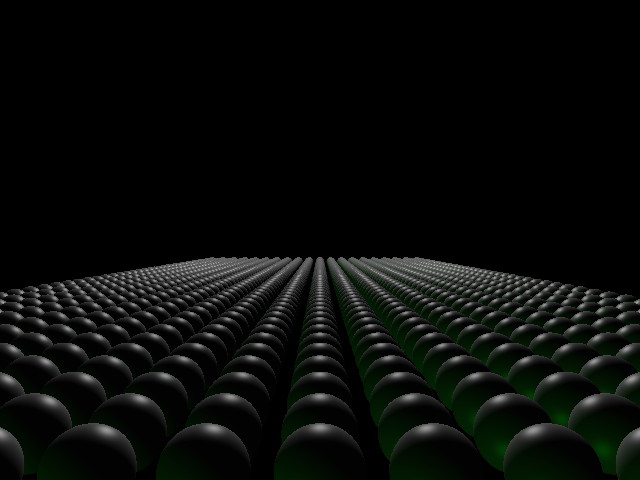
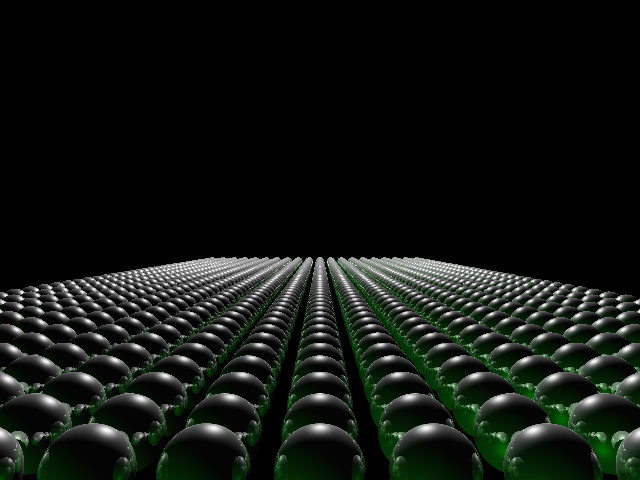
All scene 4 tests passing

Changed region(s): [[0.0, 0.5312, 1.0, 1.0], [0.25, 0.9375, 0.2812, 0.9688]]

diff --git a/HW1/CPU_PathTracer/src/raytracer.cpp b/HW1/CPU_PathTracer/src/raytracer.cpp
@@ -13,7 +13,7 @@
 
 
 int bounces = 0;
-int maxDepth;
+int maxDepth = 5;
 glm::mat4 modelStack = glm::mat4(1.0f);
 glm::mat4 prevMatrix = glm::mat4(1.0f);
 glm::mat4 invModelStack = glm::mat4(1.0f);
@@ -21,7 +21,9 @@ glm::mat4 prevInvMatrix = glm::mat4(1.0f);
 glm::mat4 normalMatrix = glm::mat4(1.0f);
 glm::mat4 scaleMatrix = glm::mat4(1.0f);
 std::vector<glm::mat4> transformStack = { glm::mat4(1.0f) };
-
+float constant = 1;
+float linear = 0;
+float quadratic = 0;
 
 Ray ShootRay(const Camera& cam, const int i, const int j, const int width, const int height)
 {
@@ -78,6 +80,11 @@ glm::vec3 CheckTriangleIntersection(Triangle* triangle, Ray& ray)
 	}
 
 	glm::vec3 faceNormal = glm::normalize(glm::cross(e1, e2));
+
+	if (glm::dot(faceNormal, ray.direction) > 0.0f)
+	{
+		faceNormal = -faceNormal;
+	}
 	triangle->SetNormal(faceNormal);
 
 	return glm::vec3(t, beta, gamma);
@@ -270,20 +277,25 @@ Intersection* FindIntersection(Scene* scene, Ray& ray)
 		NULL);
 }
 
-glm::vec3 FindColor(Intersection* intersection, Scene* scene, Camera* camera)
+glm::vec3 FindColor(const Ray& ray, Scene* scene, Camera* camera, int depth)
 {
+	Intersection* intersection = FindIntersection(scene, const_cast<Ray&>(ray));
 	glm::vec3 finalCol = glm::vec3(0.0f);
+	glm::vec3 eyeDir = glm::normalize(-ray.direction);
+
+	if (!intersection->didHit)
+	{
+		delete intersection;
+		return glm::vec3(0.0f);
+	}
 
 	if (intersection->didHit)
 	{
 		std::vector<DirectionalLight*> dirLights = scene->GetDirLights();
 		for (auto& dirLight : dirLights)
 		{
-			glm::vec3 eyeDir = glm::normalize(camera->getEyePos() - intersection->intersectionPoint);
 			glm::vec3 normalizedLightDirection = glm::normalize(-dirLight->direction);
-
 			float nDotL = glm::dot(intersection->hitObjectNormal, normalizedLightDirection);
-			// No attenuation for now
 
 			if (intersection->hitHasTexture)
 			{
@@ -294,28 +306,8 @@ glm::vec3 FindColor(Intersection* intersection, Scene* scene, Camera* camera)
 			glm::vec3 halfVec = glm::normalize(normalizedLightDirection + eyeDir);
 			float nDotH = glm::dot(intersection->hitObjectNormal, halfVec);
 			glm::vec3 phong = intersection->hitObjectSpecular * dirLight->colour * pow(std::max(nDotH, 0.0f), intersection->hitObjectShininess);
+			bounces = 0;
 
-			for (int i = 0; i < maxDepth; i++)
-			{
-				bounces++;
-				if (bounces >= maxDepth)
-				{
-					break;
-				}
-				glm::vec3 reflectDir = glm::reflect(-normalizedLightDirection, intersection->hitObjectNormal);
-				glm::vec3 origin = intersection->intersectionPoint + (intersection->hitObjectNormal * 0.001f);
-				Ray mirrorRay(origin, reflectDir);
-				Intersection* mirrorIntersection = FindIntersection(scene, mirrorRay);
-				finalCol += FindColor(mirrorIntersection, scene, camera) * intersection->hitObjectSpecular;
-
-				if (intersection->hitObjectIOR > 1.0f)
-				{
-					glm::vec3 refractDir = glm::refract(-normalizedLightDirection, intersection->hitObjectNormal, 1.0f / intersection->hitObjectIOR);
-					Ray refractRay(origin, refractDir);
-					Intersection* refractIntersection = FindIntersection(scene, refractRay);
-					finalCol += FindColor(refractIntersection, scene, camera) * intersection->hitObjectSpecular;
-				}
-			}
 			// Shadow Ray
 			glm::vec3 dir = normalizedLightDirection;
 			glm::vec3 origin = intersection->intersectionPoint + (intersection->hitObjectNormal * 0.001f);
@@ -337,41 +329,20 @@ glm::vec3 FindColor(Intersection* intersection, Scene* scene, Camera* camera)
 		{
 			glm::vec3 lightDir = pointLight->position - intersection->intersectionPoint;
 			float distanceToLight = glm::length(lightDir);
-			glm::vec3 eyeDir = glm::normalize(camera->getEyePos() - intersection->intersectionPoint);
 			glm::vec3 normalizedLightDirection = glm::normalize(lightDir);
 			float nDotL = glm::dot(intersection->hitObjectNormal, normalizedLightDirection);
-			// No attenuation for now
 			if (intersection->hitHasTexture)
 			{
 				intersection->hitObjectDiffuse = intersection->hitObjectTexture->value(0, 0, intersection->intersectionPoint);
 			}
+
+			float attenuation = 1.0f / (constant + linear * distanceToLight + quadratic * (distanceToLight * distanceToLight));
+
 			glm::vec3 lambert = intersection->hitObjectDiffuse * pointLight->colour * std::max(nDotL, 0.0f);
 			glm::vec3 halfVec = glm::normalize(normalizedLightDirection + eyeDir);
 			float nDotH = glm::dot(intersection->hitObjectNormal, halfVec);
 			glm::vec3 phong = intersection->hitObjectSpecular * pointLight->colour * pow(std::max(nDotH, 0.0f), intersection->hitObjectShininess);
 
-			for (int i = 0; i < maxDepth; i++)
-			{
-				bounces++;
-
-				if (bounces >= maxDepth)
-				{
-					break;
-				}
-				glm::vec3 reflectDir = glm::reflect(-normalizedLightDirection, intersection->hitObjectNormal);
-				glm::vec3 origin = intersection->intersectionPoint + (intersection->hitObjectNormal * 0.001f);
-				Ray mirrorRay(origin, reflectDir);
-				Intersection* mirrorIntersection = FindIntersection(scene, mirrorRay);
-				finalCol += FindColor(mirrorIntersection, scene, camera) * intersection->hitObjectSpecular;
-
-				if (intersection->hitObjectIOR > 1.0f)
-				{
-					glm::vec3 refractDir = glm::refract(-normalizedLightDirection, intersection->hitObjectNormal, 1.0f / intersection->hitObjectIOR);
-					Ray refractRay(origin, refractDir);
-					Intersection* refractIntersection = FindIntersection(scene, refractRay);
-					finalCol += FindColor(refractIntersection, scene, camera) * intersection->hitObjectSpecular;
-				}
-			}
 			// Shadow Ray
 			glm::vec3 dir = normalizedLightDirection;
 			glm::vec3 origin = intersection->intersectionPoint + (intersection->hitObjectNormal * 0.001f);
@@ -379,16 +350,36 @@ glm::vec3 FindColor(Intersection* intersection, Scene* scene, Camera* camera)
 			Intersection* shadowIntersection = FindIntersection(scene, shadowRay);
 			if (shadowIntersection->didHit)
 			{
-				float distanceToOccluder = glm::length(shadowIntersection->intersectionPoint - intersection->intersectionPoint);
+				/*float distanceToOccluder = glm::length(shadowIntersection->intersectionPoint - intersection->intersectionPoint);
 				if (distanceToOccluder < distanceToLight)
 				{
 					delete shadowIntersection;
 					continue;
-				}
+				}*/
+				continue;
 			}
 
-			finalCol += lambert + phong;
+			finalCol += (lambert + phong) * attenuation;
 		}
+
+	
+		glm::vec3 reflectDir = glm::reflect(ray.direction, intersection->hitObjectNormal);
+		glm::vec3 origin = intersection->intersectionPoint + (intersection->hitObjectNormal * 0.001f);
+		Ray mirrorRay(origin, reflectDir);
+		finalCol += FindColor(mirrorRay, scene, camera, depth + 1) * intersection->hitObjectSpecular;
+
+		//glm::vec3 refractDir = glm::refract(ray.direction, intersection->hitObjectNormal, 1.0f / intersection->hitObjectIOR);
+		//if (glm::length(refractDir) > 0.0f)
+		//{
+		//	Ray refractRay(origin, glm::normalize(refractDir));
+		//	finalCol += FindColor(refractRay, scene, camera, depth + 1) * intersection->hitObjectSpecular;
+		//}
+
+		if (depth >= maxDepth)
+		{
+			return finalCol + intersection->hitObjectEmission + intersection->hitObjectAmbient;
+		}
+
 		return finalCol + intersection->hitObjectEmission + intersection->hitObjectAmbient;
 	}
 	else
@@ -459,7 +450,7 @@ int main() {
 	Scene* scene = new Scene();
 
 
-	std::ifstream file("C:/dev/CSE168x/HW1/CPU_PathTracer/Release/scene7.test");
+	std::ifstream file("C:/dev/CSE168x/HW1/CPU_PathTracer/Release/scene4-specular.test");
 	std::string line;
 
 	while (std::getline(file, line))
@@ -535,7 +526,7 @@ int main() {
 			height = h;
 		}
 
-		if (cmd == "maxDepth")
+		if (cmd == "maxdepth")
 		{
 			int d;
 			iss >> d;
@@ -617,9 +608,10 @@ int main() {
 			scene->AddPointLight(new PointLight(glm::vec3(x, y, z), glm::vec3(r, g, b)));
 		}
 
-		if (cmd == "attenuation const linear quadratic")
+		if (cmd == "attenuation")
 		{
 			std::cout << line << std::endl;
+			iss >> constant >> linear >> quadratic;
 		}
 
 		if (cmd == "ambient")
@@ -670,10 +662,10 @@ int main() {
 	{
 		for (int x = 0; x < IMAGE_WIDTH; x++)
 		{
-			bounces = 0;
+			int depth = 0;
 			Ray ray = ShootRay(cam, x, y, IMAGE_WIDTH, IMAGE_HEIGHT);
 			Intersection* intersection = FindIntersection(scene, ray);
-			col = FindColor(intersection, scene, &cam);
+			col = FindColor(ray, scene, &cam, depth);
 			int idx = (y * IMAGE_WIDTH + x) * 3;
 			pixels[idx + 0] = std::min(col.b * 255, 255.0f);
 			pixels[idx + 1] = std::min(col.g * 255, 255.0f);

diff --git a/HW1/CPU_PathTracer/src/Triangle.h b/HW1/CPU_PathTracer/src/Triangle.h
@@ -27,7 +27,7 @@ public:
 	{
 	}
 
-	void SetNormal(glm::vec3 newNormal)
+	void SetNormal(const glm::vec3& newNormal)
 	{
 		normal = newNormal;
 	}
